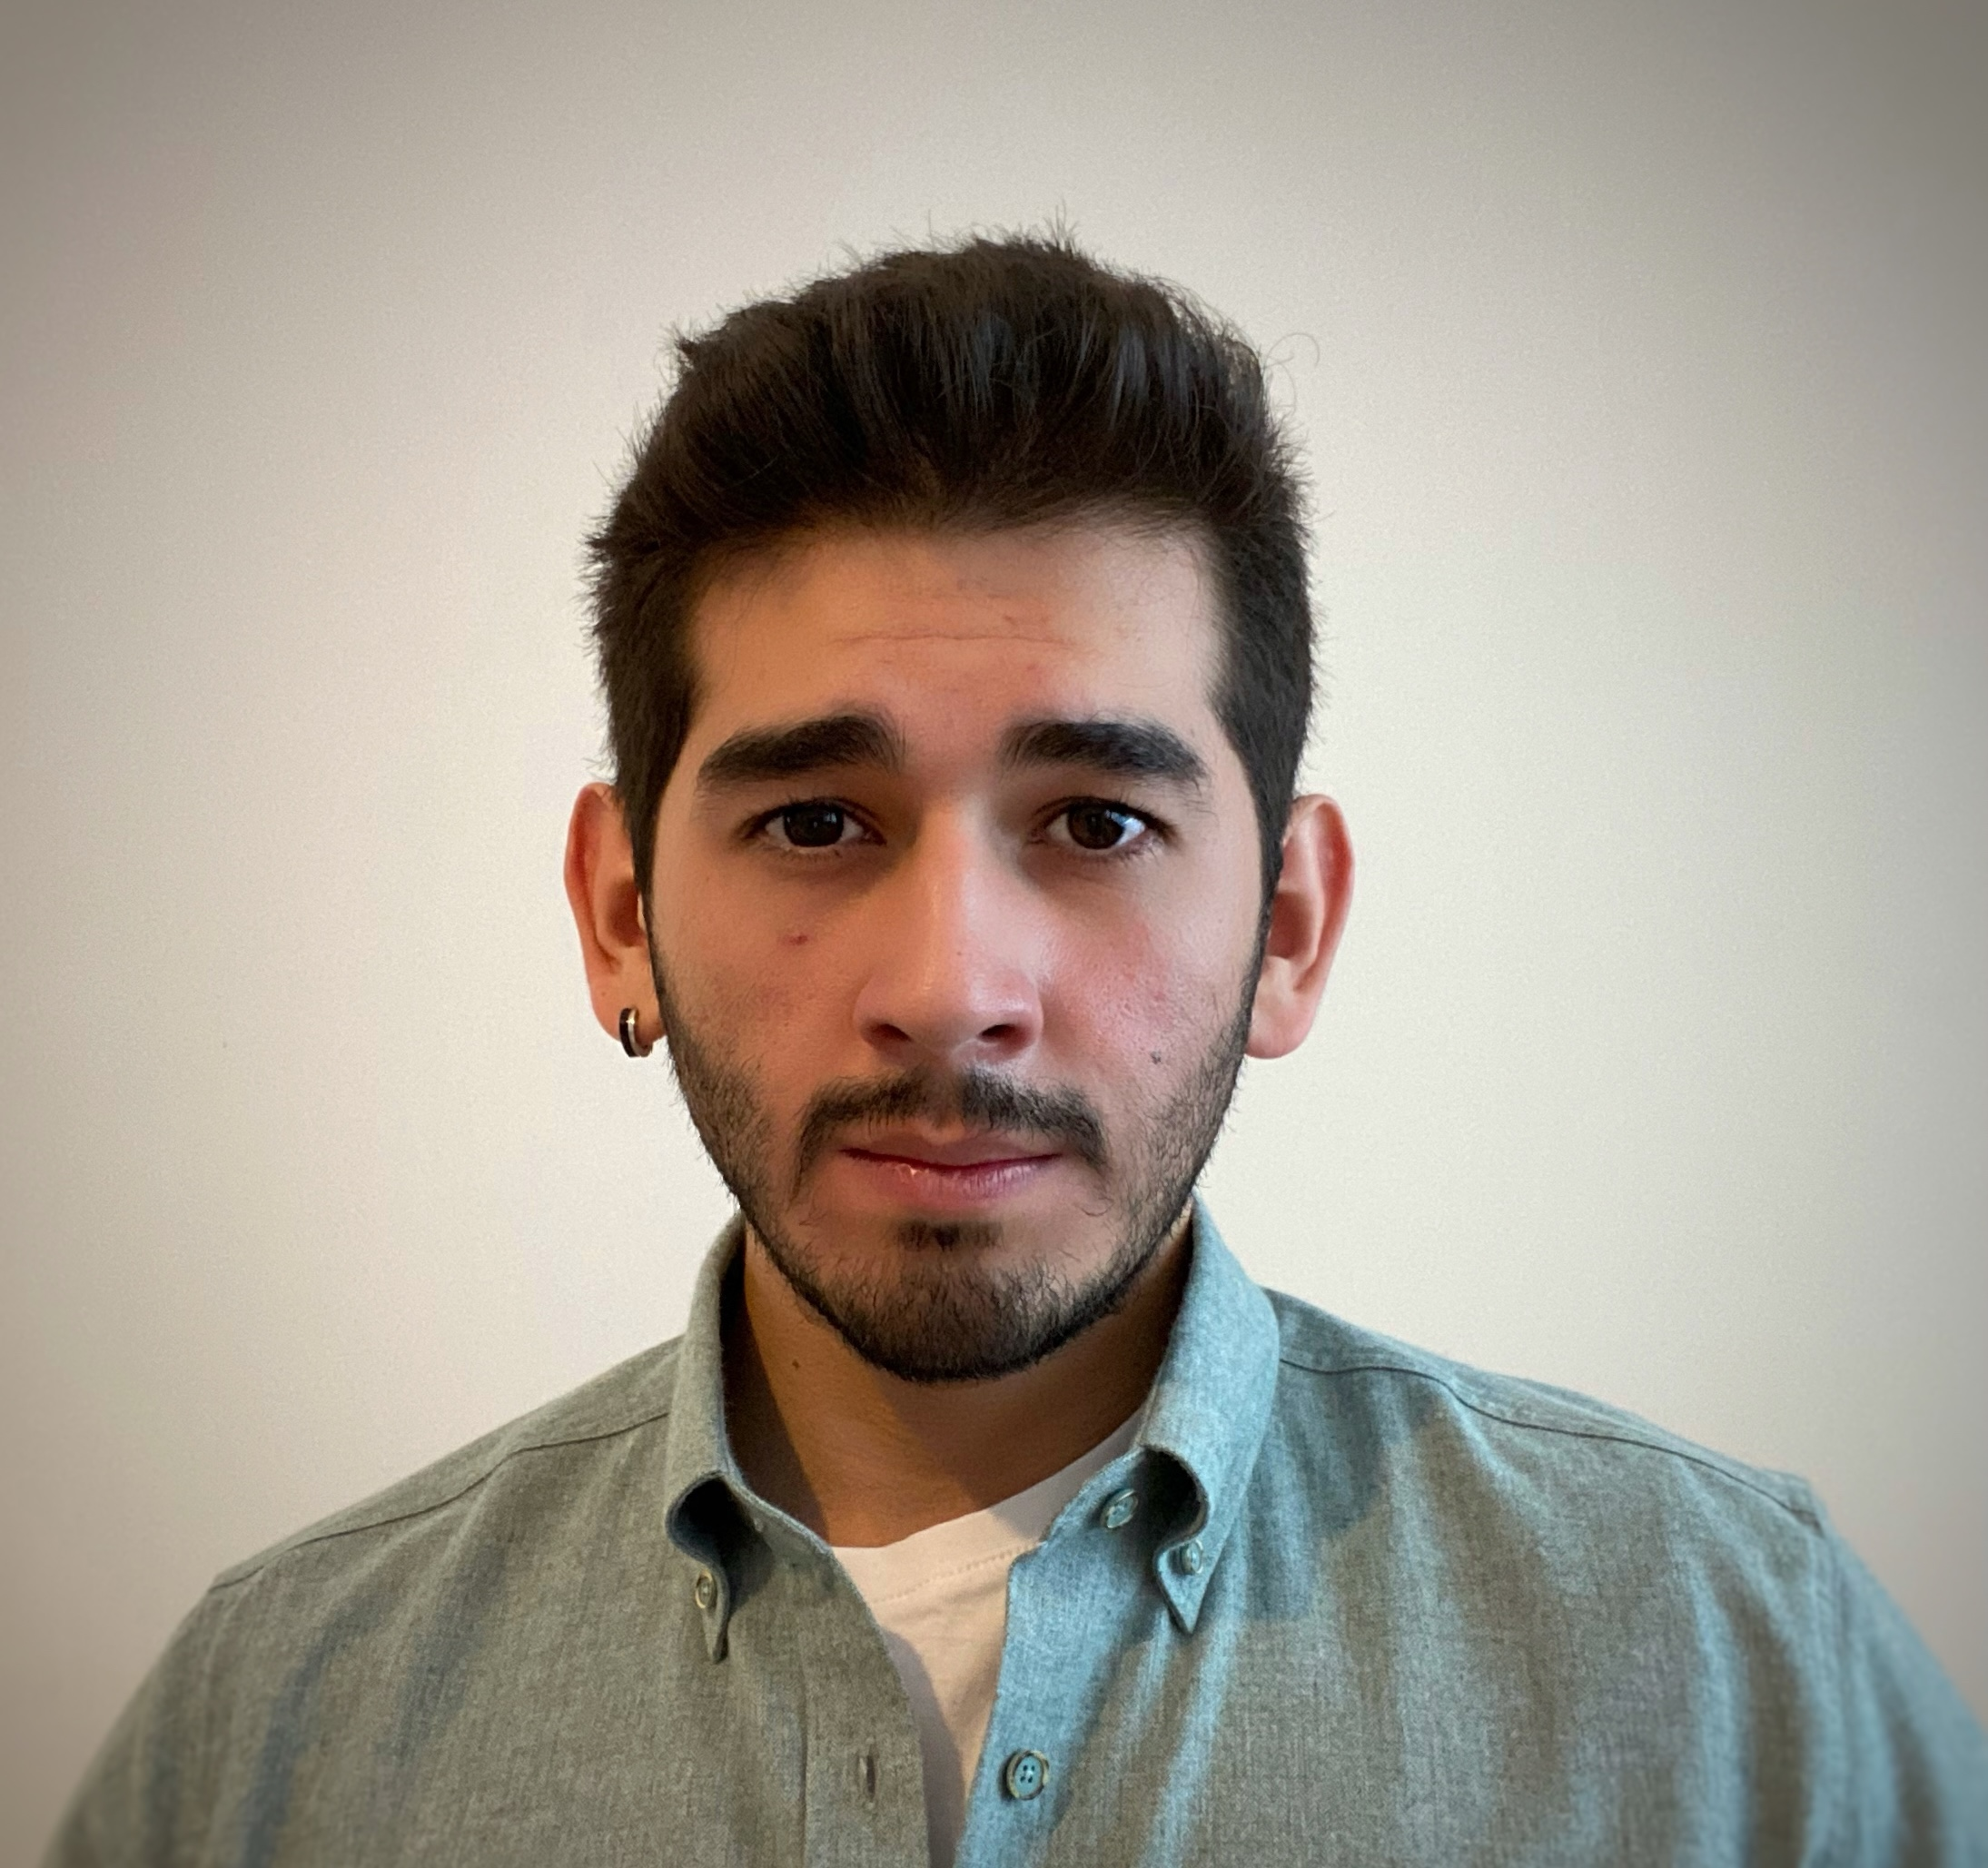
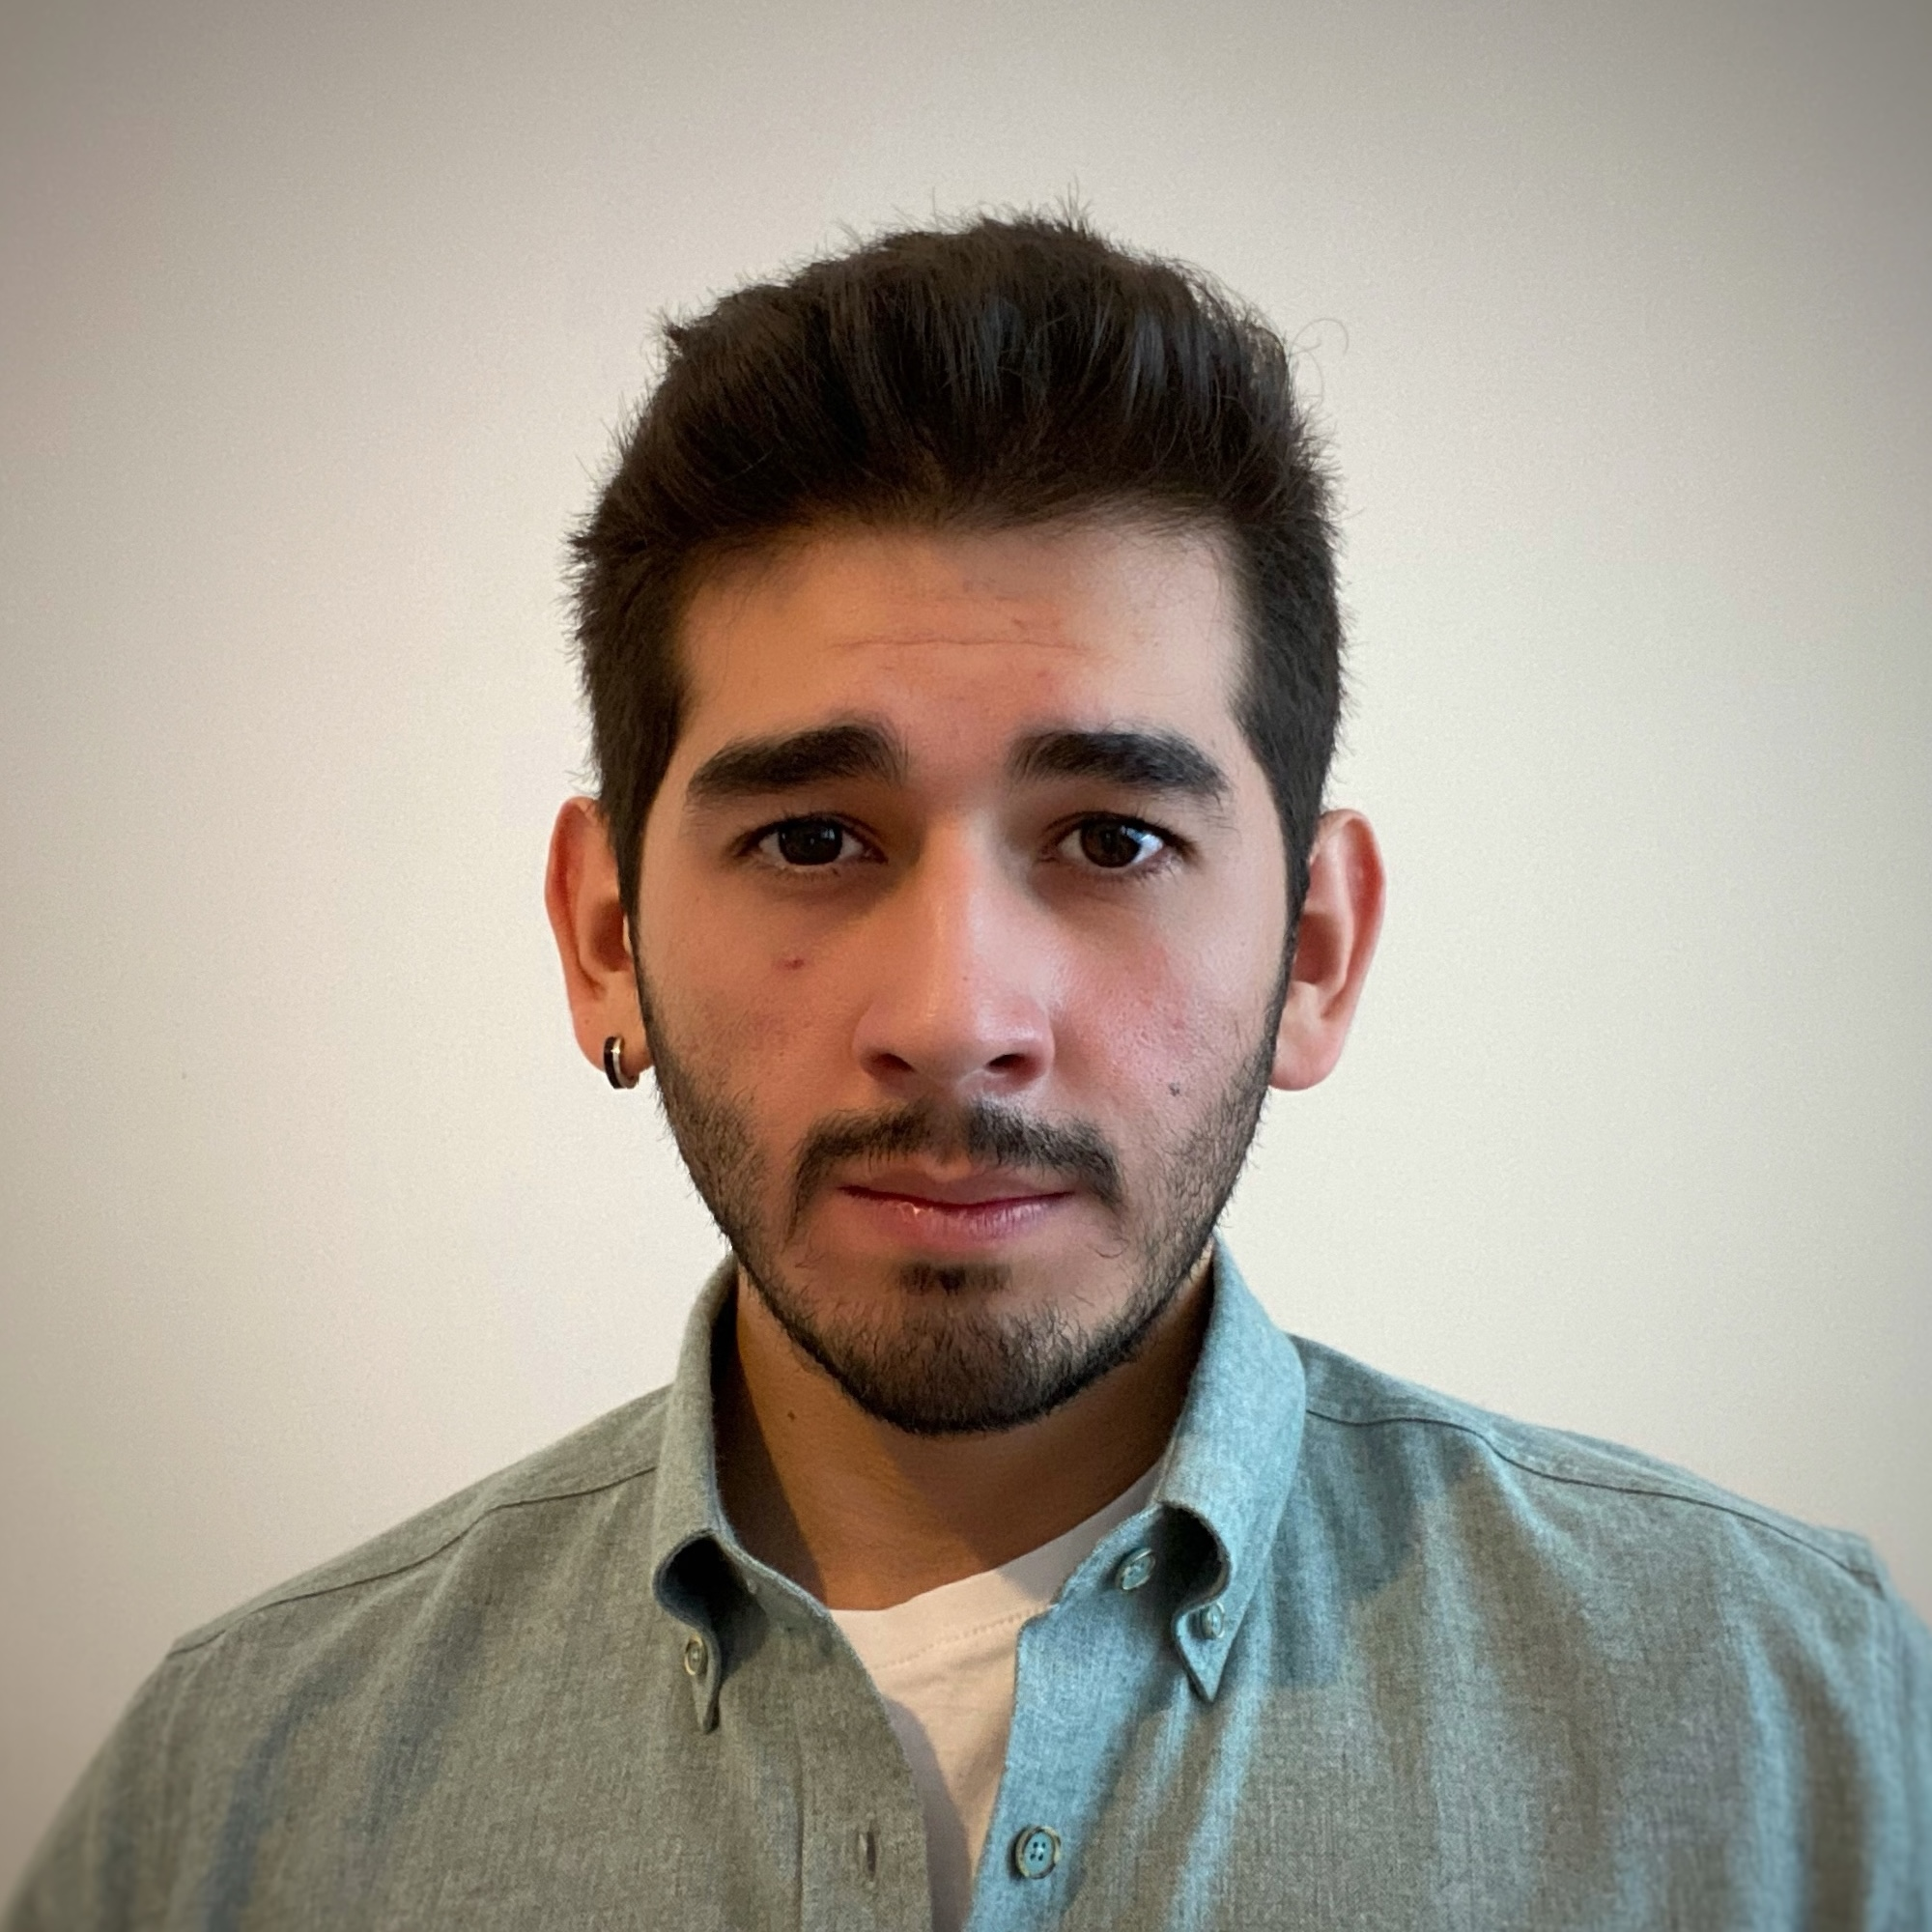
Minor update on profile pic

diff --git a/_sass/_base.scss b/_sass/_base.scss
@@ -199,9 +199,10 @@ ul.task-list input[type="checkbox"] {
     margin-bottom: 5px;
     margin-top: 5px;
     font-family: monospace;
+    text-align: center;
 
     p {
-      display: inline-block;
+      display: block;
       margin: 0;
     }
   }

diff --git a/_pages/about.md b/_pages/about.md
@@ -7,7 +7,7 @@ subtitle: PhD Student · School of Informatics, University of Edinburgh
 profile:
   align: right
   image: prof_pic.jpg
-  image_circular: false
+  image_circular: true
   more_info: >
     <p>Informatics Forum</p>
     <p>10 Crichton Street</p>